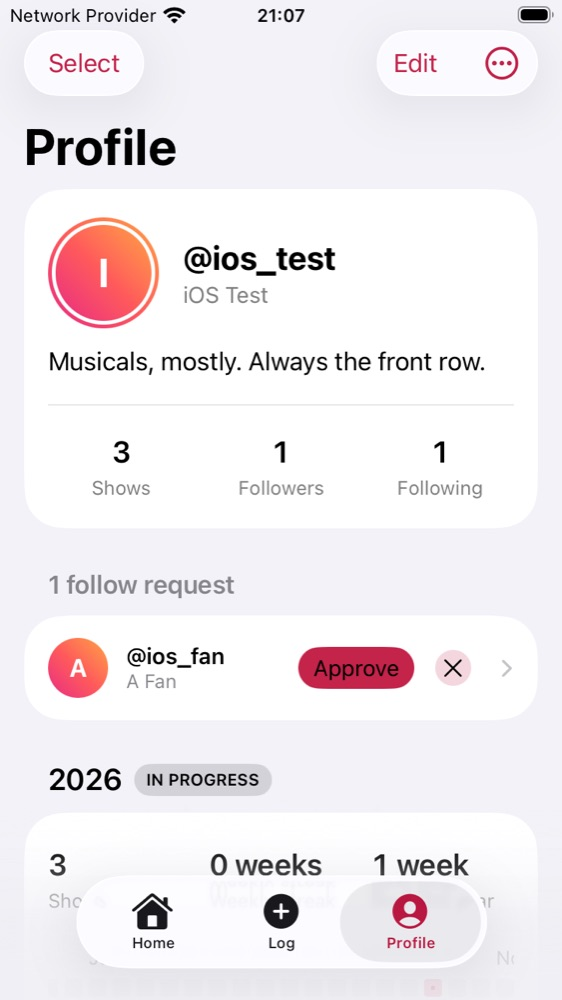
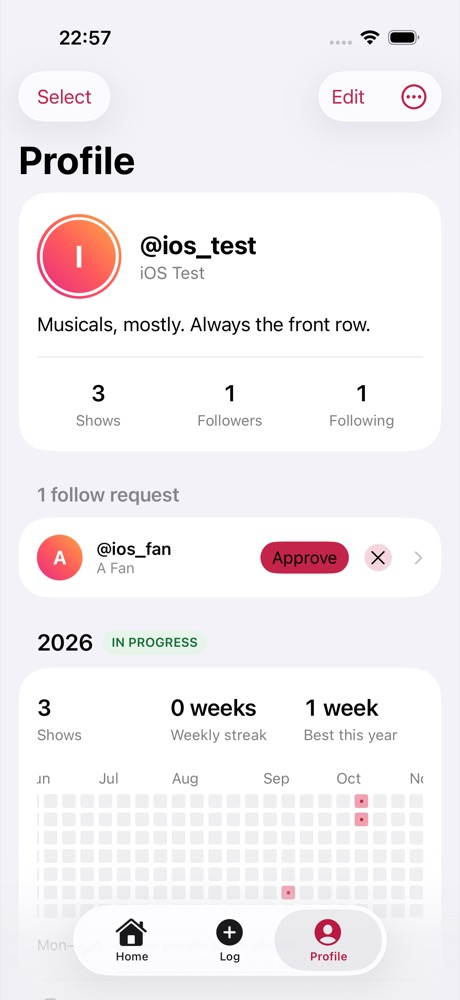
Refine profile navigation rows and progress status

diff --git a/apps/web/src/lib/design-system.ts b/apps/web/src/lib/design-system.ts
@@ -196,6 +196,7 @@ export const IOS_RULES = [
 
 /** How each colour token is expressed in SwiftUI. */
 export const IOS_TOKENS = [
+  { token: "progress-status", swift: "`Palette.progressText` / `Palette.progressFill`", note: "Green IN PROGRESS status chip: contrasting text/fill pairs for light and dark appearance" },
   { token: "background", swift: "Color(.systemGroupedBackground)", note: "Every screen" },
   { token: "surface", swift: "Color(.secondarySystemGroupedBackground)", note: "List cells, cards (`.groupedCard()`)" },
   { token: "fill", swift: "Color(.tertiarySystemFill)", note: "Placeholders, capsule tags" },
@@ -215,7 +216,7 @@ export const IOS_TOKENS = [
 export const IOS_COMPONENTS = [
   { name: "PublicProfileView / ProfileYearHeading / ProfileYearMetrics", file: "Screens/People/PublicProfileView.swift, Screens/Profile/ProfileYearSummary.swift", notes: "Public profiles match the compact avatar/identity header and Shows/Followers/Following row. The shared current-year card and heat map use public, logged entries under the viewer’s RLS. Follow/Edit and More remain; owner-only Trips/Insights links are omitted. Day selection opens a public-only date sheet." },
   { name: "TripsList", file: "Screens/Trips/TripsList.swift", notes: "Dedicated inset-grouped destination from Profile, with a native back button and + toolbar action. Trips open their detail screens; creation uses a sheet. Loading, empty and error states stay inside the list." },
-  { name: "ProfileInsightsSection / InsightsView", file: "Screens/Insights/", notes: "Profile shows the current year with an IN PROGRESS badge, three equal metrics (shows, live weekly streak, best weekly streak in the current year), and the heat map. The heading and metrics stack at accessibility text sizes. Trips precedes Insights beneath the grid; the diary remains visible. Insights opens a separate inset-grouped List." },
+  { name: "ProfileInsightsSection / InsightsView", file: "Screens/Insights/", notes: "Profile shows the current year with an IN PROGRESS badge, three equal metrics (shows, live weekly streak, best weekly streak in the current year), and the heat map. The green IN PROGRESS chip uses the progress status tokens. The heading and metrics stack at accessibility text sizes. Trips precedes Insights beneath the grid, using native List row heights and system separators aligned to content leading; the diary remains visible. Insights opens a separate inset-grouped List." },
   { name: "ActivityHeatmap", file: "Screens/Insights/ActivityHeatmap.swift", notes: "Monday-first yearly grid, scrollable horizontally. Chart cells have visual day selection and a full-size native calendar picker alternative for VoiceOver." },
   { name: "Screen", file: "Design/Screen.swift", notes: "A scrolling screen on the grouped background with a large (or inline) title and room above the tab bar. For screens that aren't lists, like the feed." },
   { name: ".groupedCard()", file: "Design/Theme.swift", notes: "The inset grouped surface: secondary grouped background, 16pt continuous corners, 1pt stroke, no shadow." },
@@ -250,7 +251,7 @@ export const IOS_SCREENSHOTS = [
   { file: "post-photo.jpg", title: "Feed post with a photo", caption: "Photo first at the card's full width; counts and a trip tag on one row.", width: 735, height: 1000 },
   { file: "people-search.jpg", title: "People search", caption: "A sheet from Home's search button: the field focused, people with Follow as you type.", width: 964, height: 1000 },
   { file: "comments-drawer.jpg", title: "Comments drawer", caption: "A post's comments as a pull-up drawer over the feed, the composer pinned to the bottom.", width: 460, height: 1000 },
-  { file: "profile.jpg", title: "Profile", caption: "An inset grouped List: header, counts in one row, follow requests and the current-year summary. iPhone SE.", width: 562, height: 1000 },
+  { file: "profile.jpg", title: "Profile", caption: "An inset grouped List: header, counts in one row, follow requests and the current-year summary. iPhone 17 Pro.", width: 460, height: 1000 },
   { file: "diary.jpg", title: "Diary rows", caption: "EntryRow in Upcoming and Seen sections; swipe or long press to edit or delete.", width: 460, height: 1000 },
   { file: "entry.jpg", title: "A show", caption: "A Form: the show first, then Share, then likes, trips and privacy, then Delete.", width: 460, height: 1000 },
   { file: "share.jpg", title: "Share", caption: "The Share sheet: the card at full width, then the ways to send it.", width: 460, height: 1000 },

diff --git a/apps/ios/Stubbed/Design/Theme.swift b/apps/ios/Stubbed/Design/Theme.swift
@@ -14,6 +14,9 @@ enum Palette {
   static let tintFill = Color(light: 0xFFE4E1, dark: 0x3A1418)
   /// Text on `tint`.
   static let onTint = Color(light: 0xFFFFFF, dark: 0x000000)
+  /// Green status treatment for the current-year IN PROGRESS badge.
+  static let progressText = Color(light: 0x146C35, dark: 0x8AE4A5)
+  static let progressFill = Color(light: 0xE6F4EA, dark: 0x183D25)
   static let star = Color(light: 0xE07400, dark: 0xFFA040)
   /// The app icon's gradient, magenta to coral to amber: behind avatars and
   /// posters with no photo, an empty profile cover and your own avatar's

diff --git a/apps/ios/Stubbed/Screens/Insights/ProfileInsightsSection.swift b/apps/ios/Stubbed/Screens/Insights/ProfileInsightsSection.swift
@@ -49,10 +49,10 @@ struct ProfileInsightsSection: View {
         if let count { Text(count.formatted()).foregroundStyle(.secondary) }
         Image(systemName: "chevron.right").font(.footnote).foregroundStyle(.tertiary)
       }
-      .frame(minHeight: Space.touch)
       .contentShape(.rect)
     }
     .foregroundStyle(.primary)
+    .alignmentGuide(.listRowSeparatorLeading) { _ in 0 }
   }
 
   private func load() async {

diff --git a/apps/ios/Stubbed/Screens/Profile/ProfileYearSummary.swift b/apps/ios/Stubbed/Screens/Profile/ProfileYearSummary.swift
@@ -15,7 +15,8 @@ struct ProfileYearHeading: View {
         .font(.caption2.weight(.semibold))
         .padding(.horizontal, Space.s)
         .padding(.vertical, Space.xs)
-        .background(.quaternary, in: .capsule)
+        .foregroundStyle(Palette.progressText)
+        .background(Palette.progressFill, in: .capsule)
     }
     .foregroundStyle(.primary)
     .textCase(nil)

diff --git a/apps/ios/Stubbed/Screens/People/PublicProfileView.swift b/apps/ios/Stubbed/Screens/People/PublicProfileView.swift
@@ -62,8 +62,6 @@ struct PublicProfileView: View {
             } header: {
               ProfileYearHeading(year: InsightStats.currentYear)
                 .accessibilityIdentifier("public-profile-year-header")
-            } footer: {
-              Text("Public shows only.")
             }
           }
           if page.viewer.blocked {

diff --git a/docs/DECISIONS.md b/docs/DECISIONS.md
@@ -618,3 +618,7 @@ Replace the Diary/Trips segmented control with a permanent diary and a Trips nav
 The Profile summary is explicitly the current year, with an IN PROGRESS badge and equally weighted Shows, Weekly streak and Best this year metrics. Use the current-year insights response: the live streak can cross a year boundary; the best streak is limited to the displayed year. Stack metrics for accessibility text sizes. Keep the existing activity heat map and its accessible date action.
 
 Public iOS profiles share the compact identity/counts layout and year-summary presentation, retaining Follow/Edit/More controls and omitting owner-only Trips and Insights navigation. A new SECURITY INVOKER public_profile_activity RPC computes public-only logged counts and weekly streaks under existing RLS, including private-profile approval and blocks; it never uses own_insights. Heat-map dates open a separately queried public date sheet. Apply migration 20261030211500_public_profile_activity.sql before releasing this client.
+
+## 2026-10-30: Native Profile navigation rows and progress status
+
+Trips and Insights rely on the List's native minimum row height instead of adding a 44pt label inside native row padding. Align the system separator to the leading content edge so it matches the separator above the rows. Preserve system Dynamic Type and row hit targets. The shared IN PROGRESS chip uses contrasting green text/fill tokens. Remove the public-profile footer remark while preserving public-only queries and RLS. This follow-up changes presentation only.
